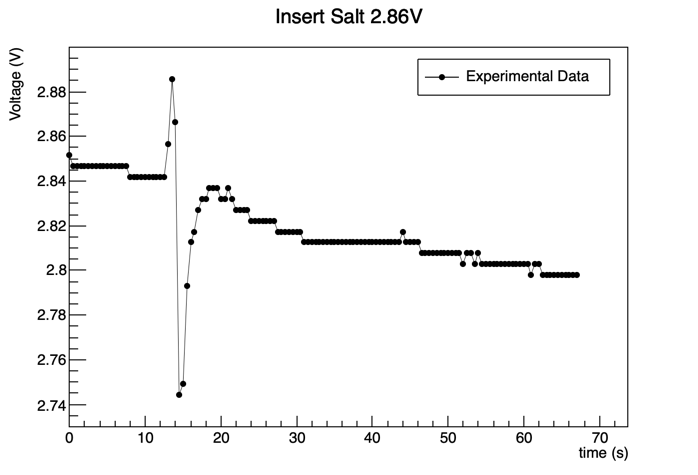
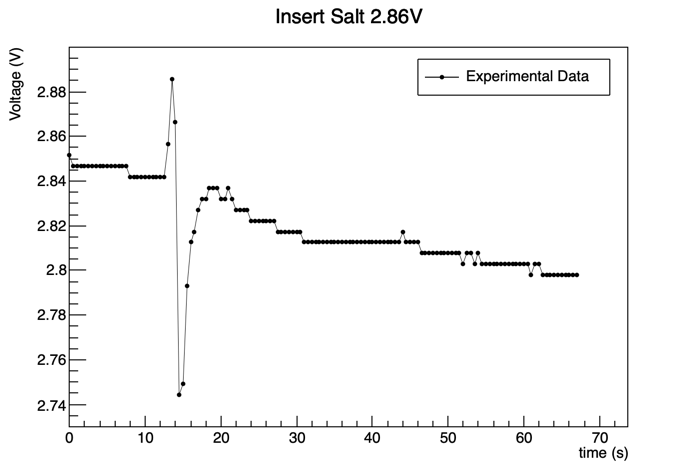
marker size setted to 0.5

diff --git a/Graph/Analysis.C b/Graph/Analysis.C
@@ -35,7 +35,7 @@ void Analysis(TString path = "Insert_tap_2.csv")
     g1->SetTitle("Insert salt from 3.2V;time (s);Voltage (V)");
     g1->SetMarkerStyle(8);
     g1->SetMarkerColor(kBlack);
-    g1->SetMarkerSize(.7);
+    g1->SetMarkerSize(.5);
     g1->SetLineStyle(1);
     g1->SetLineWidth(1.);
 
@@ -61,7 +61,7 @@ void Analysis(TString path = "Insert_tap_2.csv")
     g2->SetTitle("Insert tap 1;time (s);Voltage (V)");
     g2->SetMarkerStyle(8);
     g2->SetMarkerColor(kBlack);
-    g2->SetMarkerSize(.7);
+    g2->SetMarkerSize(.5);
     g2->SetLineStyle(1);
     g2->SetLineWidth(1.);
 
@@ -93,7 +93,7 @@ void Analysis(TString path = "Insert_tap_2.csv")
     g3->SetTitle("Tap water insertion, V_{low} = 2.1 V; time (s); Voltage (V)");
     g3->SetMarkerStyle(8);
     g3->SetMarkerColor(kBlack);
-    g3->SetMarkerSize(.7);
+    g3->SetMarkerSize(.5);
     g3->SetLineStyle(1);
     g3->SetLineWidth(1.);
 
@@ -126,7 +126,7 @@ void Analysis(TString path = "Insert_tap_2.csv")
     g4->SetTitle("Insert salt 3V;time (s);Voltage (V)");
     g4->SetMarkerStyle(8);
     g4->SetMarkerColor(kBlack);
-    g4->SetMarkerSize(.7);
+    g4->SetMarkerSize(.5);
     g4->SetLineStyle(1);
     g4->SetLineWidth(1.);
 
@@ -151,7 +151,7 @@ void Analysis(TString path = "Insert_tap_2.csv")
     g5->SetTitle("Insert Salt 2.86V;time (s);Voltage (V)");
     g5->SetMarkerStyle(8);
     g5->SetMarkerColor(kBlack);
-    g5->SetMarkerSize(.7);
+    g5->SetMarkerSize(.5);
     g5->SetLineStyle(1);
     g5->SetLineWidth(1.);
 
